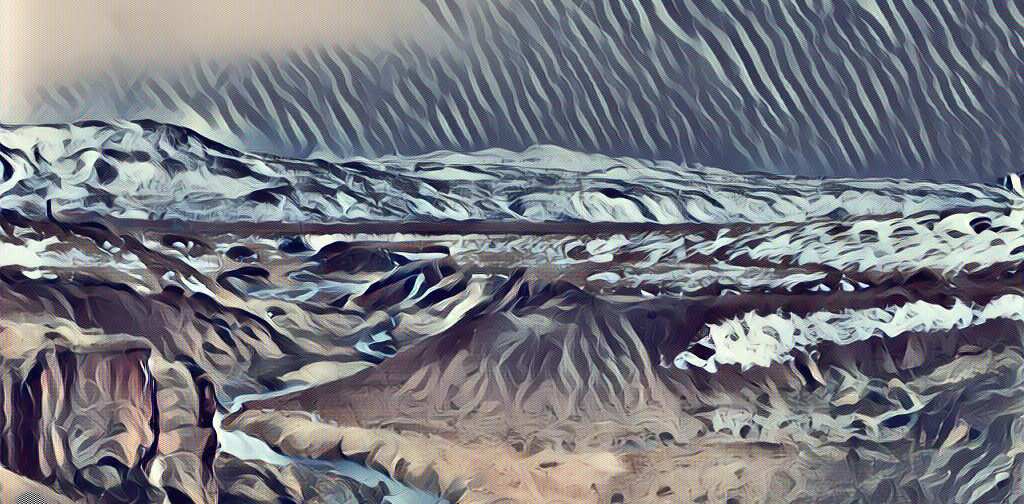
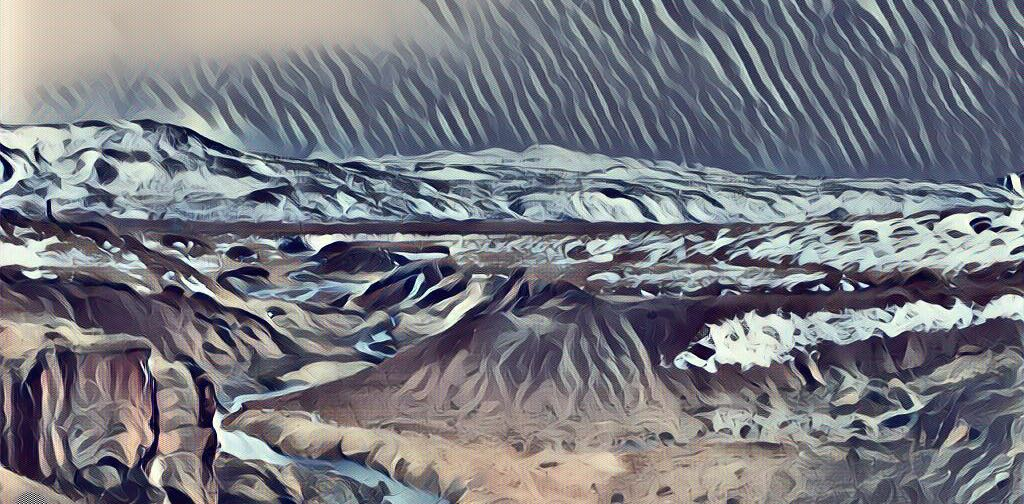
quick fix

diff --git a/across-the-border/index.html b/across-the-border/index.html
@@ -32,7 +32,7 @@ description: A hiking larp about covertly crossing borders. One player is the le
   }
 </style>
 
-<div class="jumbotron homepage" style="background: url(/img/across-the-border-title.jpg) no-repeat bottom center; background-size: cover; vertical-align: bottom;" title="The cover photo is a remix; the orginal is by Martha T and under CC-BY 2.0 https://www.flickr.com/photos/46248775@N00/8809912944">
+<div class="jumbotron homepage" style="background: url(/img/across-the-border-title.jpg) no-repeat center center; background-size: cover; vertical-align: bottom;" title="A altered image of hiking in Iceland">
 
 </div>
 
